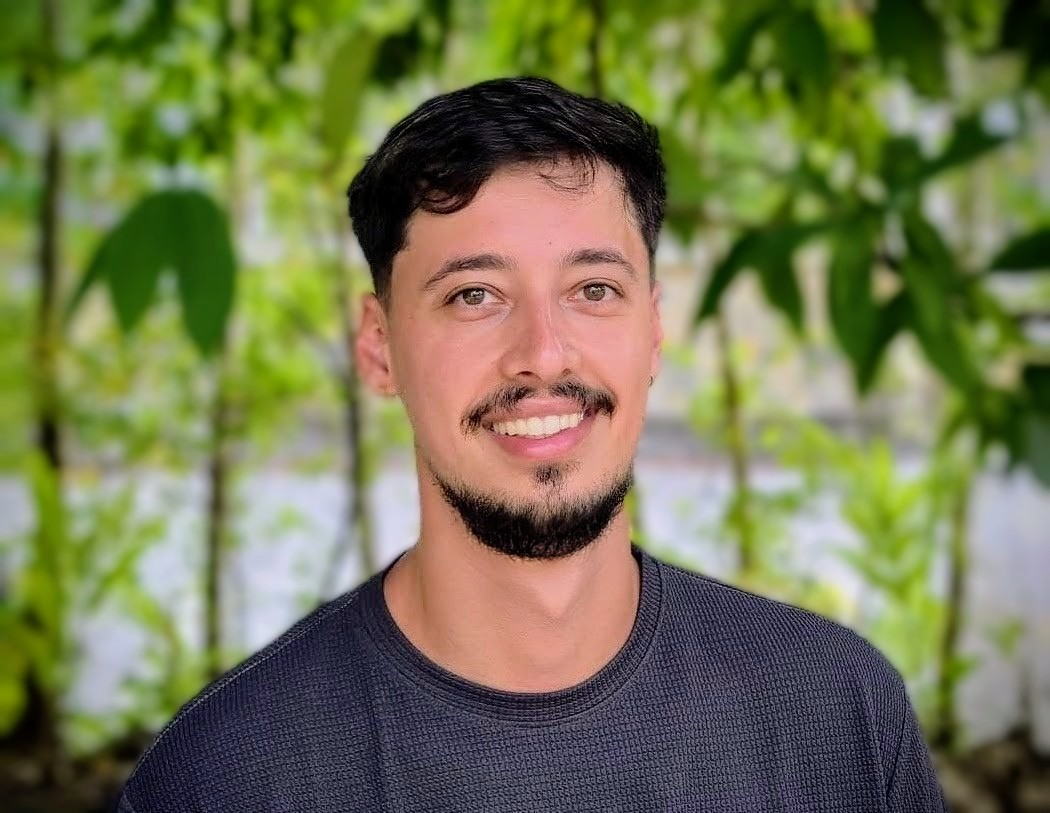
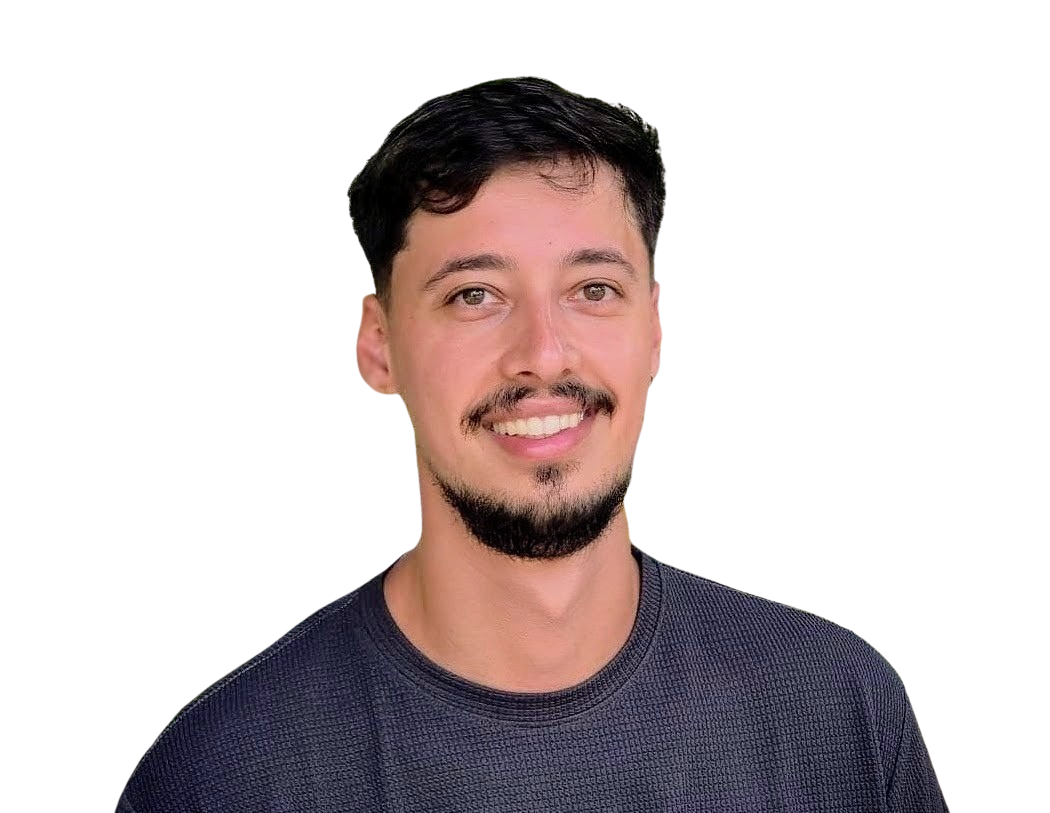
adjust hero part

diff --git a/src/index.css b/src/index.css
@@ -5,111 +5,161 @@
 @custom-variant dark (&:where(.dark, .dark *));
 
 html {
-  scroll-behavior: smooth;
+    scroll-behavior: smooth;
 }
 
 @media (prefers-reduced-motion: reduce) {
-  html {
-    scroll-behavior: auto;
-  }
+    html {
+        scroll-behavior: auto;
+    }
 }
 
 #experience,
 #skills,
 #writings {
-  scroll-margin-top: 4rem;
+    scroll-margin-top: 4rem;
 }
 
 @theme {
-  --color-surface-container-low: #f2f4f6;
-  --color-surface-container-highest: #e0e3e5;
-  --color-background: #f7f9fb;
-  --color-on-secondary-fixed-variant: #2f3aa3;
-  --color-primary-fixed: #e3dfff;
-  --color-on-primary-container: #8683ba;
-  --color-inverse-primary: #c4c1fb;
-  --color-on-secondary-fixed: #000767;
-  --color-error-container: #ffdad6;
-  --color-primary-container: #1e1b4b;
-  --color-tertiary-container: #002722;
-  --color-on-primary-fixed-variant: #444173;
-  --color-on-tertiary-fixed: #00201c;
-  --color-surface: #f7f9fb;
-  --color-tertiary: #000e0b;
-  --color-surface-container-high: #e6e8ea;
-  --color-outline: #787680;
-  --color-surface-tint: #5b598c;
-  --color-surface-variant: #e0e3e5;
-  --color-on-primary-fixed: #181445;
-  --color-on-primary: #ffffff;
-  --color-inverse-on-surface: #eff1f3;
-  --color-primary: #070235;
-  --color-surface-container: #eceef0;
-  --color-surface-container-lowest: #ffffff;
-  --color-outline-variant: #c8c5d0;
-  --color-primary-fixed-dim: #c4c1fb;
-  --color-on-secondary-container: #17228f;
-  --color-on-error: #ffffff;
-  --color-tertiary-fixed: #62fae3;
-  --color-tertiary-fixed-dim: #3cddc7;
-  --color-secondary-fixed-dim: #bdc2ff;
-  --color-secondary: #4953bc;
-  --color-on-error-container: #93000a;
-  --color-error: #ba1a1a;
-  --color-surface-bright: #f7f9fb;
-  --color-surface-dim: #d8dadc;
-  --color-on-surface: #191c1e;
-  --color-secondary-fixed: #e0e0ff;
-  --color-on-tertiary-fixed-variant: #005047;
-  --color-inverse-surface: #2d3133;
-  --color-on-tertiary: #ffffff;
-  --color-on-background: #191c1e;
-  --color-secondary-container: #8792fe;
-  --color-on-tertiary-container: #009a8a;
-  --color-on-secondary: #ffffff;
-  --color-on-surface-variant: #47464f;
+    --color-surface-container-low: #f2f4f6;
+    --color-surface-container-highest: #e0e3e5;
+    --color-background: #f7f9fb;
+    --color-on-secondary-fixed-variant: #2f3aa3;
+    --color-primary-fixed: #e3dfff;
+    --color-on-primary-container: #8683ba;
+    --color-inverse-primary: #c4c1fb;
+    --color-on-secondary-fixed: #000767;
+    --color-error-container: #ffdad6;
+    --color-primary-container: #1e1b4b;
+    --color-tertiary-container: #002722;
+    --color-on-primary-fixed-variant: #444173;
+    --color-on-tertiary-fixed: #00201c;
+    --color-surface: #f7f9fb;
+    --color-tertiary: #000e0b;
+    --color-surface-container-high: #e6e8ea;
+    --color-outline: #787680;
+    --color-surface-tint: #5b598c;
+    --color-surface-variant: #e0e3e5;
+    --color-on-primary-fixed: #181445;
+    --color-on-primary: #ffffff;
+    --color-inverse-on-surface: #eff1f3;
+    --color-primary: #070235;
+    --color-surface-container: #eceef0;
+    --color-surface-container-lowest: #ffffff;
+    --color-outline-variant: #c8c5d0;
+    --color-primary-fixed-dim: #c4c1fb;
+    --color-on-secondary-container: #17228f;
+    --color-on-error: #ffffff;
+    --color-tertiary-fixed: #62fae3;
+    --color-tertiary-fixed-dim: #3cddc7;
+    --color-secondary-fixed-dim: #bdc2ff;
+    --color-secondary: #4953bc;
+    --color-on-error-container: #93000a;
+    --color-error: #ba1a1a;
+    --color-surface-bright: #f7f9fb;
+    --color-surface-dim: #d8dadc;
+    --color-on-surface: #191c1e;
+    --color-secondary-fixed: #e0e0ff;
+    --color-on-tertiary-fixed-variant: #005047;
+    --color-inverse-surface: #2d3133;
+    --color-on-tertiary: #ffffff;
+    --color-on-background: #191c1e;
+    --color-secondary-container: #8792fe;
+    --color-on-tertiary-container: #009a8a;
+    --color-on-secondary: #ffffff;
+    --color-on-surface-variant: #47464f;
 
-  --font-headline: "Manrope", sans-serif;
-  --font-body: "Inter", sans-serif;
-  --font-label: "Inter", sans-serif;
+    --font-headline: "Manrope", sans-serif;
+    --font-body: "Inter", sans-serif;
+    --font-label: "Inter", sans-serif;
 
-  --radius: 0.125rem;
-  --radius-lg: 0.25rem;
-  --radius-xl: 0.5rem;
-  --radius-full: 0.75rem;
+    --radius: 0.125rem;
+    --radius-lg: 0.25rem;
+    --radius-xl: 0.5rem;
+    --radius-full: 0.75rem;
 
-  --shadow-nav: 0 20px 40px rgba(30, 27, 75, 0.05);
-  --shadow-card: 0 20px 40px rgba(30, 27, 75, 0.05);
+    --shadow-nav: 0 20px 40px rgba(30, 27, 75, 0.05);
+    --shadow-card: 0 20px 40px rgba(30, 27, 75, 0.05);
 }
 
 .material-symbols-outlined {
-  font-variation-settings:
-          "FILL" 0,
-          "wght" 400,
-          "GRAD" 0,
-          "opsz" 24;
+    font-variation-settings: "FILL" 0,
+    "wght" 400,
+    "GRAD" 0,
+    "opsz" 24;
 }
 
 .blob-bg {
-  background: radial-gradient(
-          circle at 50% 50%,
-          rgba(129, 140, 248, 0.1) 0%,
-          rgba(129, 140, 248, 0) 70%
-  );
-  filter: blur(60px);
+    background: radial-gradient(
+            circle at 50% 50%,
+            rgba(129, 140, 248, 0.1) 0%,
+            rgba(129, 140, 248, 0) 70%
+    );
+    filter: blur(60px);
+}
+
+.hexagon {
+    filter: saturate(1.1) brightness(1.05);
+    background: radial-gradient(circle at 30% 30%, rgba(255, 255, 255, 0.2), transparent 40%),
+    radial-gradient(circle at 70% 70%, rgba(255, 255, 255, 0.15), transparent 40%),
+    linear-gradient(
+            135deg,
+            #ff6f91,
+            #7c7bff,
+            #9b6bff,
+            #b06ab3
+    );
+    display: flex;
+    align-items: center;
+    justify-content: center;
+    overflow: hidden;
+}
+
+.hex-small {
+    position: absolute;
+    width: 80px;
+    height: 80px;
+
+    background: rgba(255, 255, 255, 0.15);
+    transform: rotate(90deg);
+    clip-path: polygon(
+            25% 5%,
+            75% 5%,
+            100% 50%,
+            75% 95%,
+            25% 95%,
+            0% 50%
+    );
+
+    filter: blur(2px);
+    z-index: 2;
+}
+
+.hex-small.one {
+    top: 20%;
+    left: 4%;
+}
+
+.hex-small.two {
+    bottom: 20%;
+    right: 4%;
 }
 
 @keyframes experience-path-dash-flow {
-  to {
-    stroke-dashoffset: -30;
-  }
+    to {
+        stroke-dashoffset: -30;
+    }
 }
 
 .experience-path-dash-animate {
-  animation: experience-path-dash-flow 1.1s linear infinite;
+    animation: experience-path-dash-flow 1.1s linear infinite;
 }
 
 @keyframes float {
-  0%, 100% { transform: translateY(0px); }
-  50% { transform: translateY(-10px); }
+    0%, 100% {
+        transform: translateY(0px);
+    }
+    50% {
+        transform: translateY(-10px);
+    }
 }

diff --git a/src/components/HeroSection.tsx b/src/components/HeroSection.tsx
@@ -31,9 +31,9 @@ const socialIconMap: Record<
 };
 const socialUiMap: Record<SocialPlatform, { pos: string; delay: string }> = {
   LinkedIn: { pos: "-top-2 -left-4", delay: "0s" },
-  GitHub: { pos: "top-1/2 -right-10", delay: "0.2s" },
-  LeetCode: { pos: "-bottom-4 left-1/4", delay: "0.4s" },
-  Medium: { pos: "top-1/4 -right-8", delay: "0.1s" },
+  GitHub: { pos: "top-3/5 -right-10", delay: "0.2s" },
+  LeetCode: { pos: "-bottom-4 left-1/5", delay: "0.4s" },
+  Medium: { pos: "top-1 -right-[-15px]", delay: "0.1s" },
 };
 const socials: SocialViewModel[] = (cv.socials as SocialItem[]).map((s) => ({
   Icon: socialIconMap[s.platform],
@@ -44,7 +44,7 @@ const socials: SocialViewModel[] = (cv.socials as SocialItem[]).map((s) => ({
 
 export default function HeroSection() {
   return (
-    <header className="relative flex min-h-[819px] items-center overflow-hidden py-24">
+    <header className="relative flex min-h-[619px] items-center overflow-hidden py-24">
       <div className="blob-bg absolute left-1/4 top-1/2 -z-10 h-[600px] w-[600px] -translate-x-1/2 -translate-y-1/2 opacity-40" />
       <div
         className="absolute inset-0 opacity-[0.02]"
@@ -57,8 +57,11 @@ export default function HeroSection() {
 
       <div className="mx-auto grid w-full max-w-7xl grid-cols-1 items-center gap-16 px-8 lg:grid-cols-12">
         <div className="flex flex-col justify-center lg:col-span-7">
+          <p className="max-w-xl py-2 font-body text-lg leading-relaxed">
+            Software Engineer
+          </p>
           <h1 className="mb-8 max-w-2xl font-headline text-[3.5rem] font-[800] leading-[1.1] tracking-[-0.02em] text-primary">
-            "{cv.hero.headline}"
+            {cv.hero.headline}
           </h1>
           <div className="mb-8 h-1 w-24 bg-secondary-container" />
           <p className="max-w-xl border-l border-outline-variant/30 py-2 pl-6 font-body text-lg leading-relaxed text-on-surface-variant">
@@ -84,14 +87,25 @@ export default function HeroSection() {
               </a>
             ))}
 
-            <div className="absolute inset-0 scale-105 rounded-full bg-gradient-to-tr from-primary to-secondary opacity-30 blur-2xl" />
-
-            <div className="relative h-full w-full bg-surface-container-high p-1 shadow-2xl [clip-path:polygon(50%_0%,93%_25%,93%_75%,50%_100%,7%_75%,7%_25%)]">
+            <div className="absolute inset-0 scale-105 rounded-full bg-gradient-to-tr from-primary to-secondary opacity-30 blur-3xl" />
+            <svg width="0" height="0" className="absolute">
+              <defs>
+                <clipPath id="hex-clip" clipPathUnits="objectBoundingBox">
+                  <path d="M 0.465,0.02 Q 0.5,0 0.535,0.02 L 0.896,0.23 Q 0.93,0.25 0.93,0.27 L 0.93,0.73 Q 0.93,0.75 0.896,0.77 L 0.535,0.98 Q 0.5,1 0.465,0.98 L 0.104,0.77 Q 0.07,0.75 0.07,0.73 L 0.07,0.27 Q 0.07,0.25 0.104,0.23 Z" />
+                </clipPath>
+              </defs>
+            </svg>
+            <div
+              className="relative h-full w-full"
+              style={{ clipPath: "url(#hex-clip)" }}
+            >
               <img
                 src={ProfileImg}
                 alt="Profile picture"
-                className="h-full w-full object-cover [clip-path:polygon(50%_0%,93%_25%,93%_75%,50%_100%,7%_75%,7%_25%)]"
+                className="h-full w-full object-cover hexagon"
               />
+              <div className="hex-small one mix-blend-overlay" />
+              <div className="hex-small two mix-blend-overlay" />
             </div>
           </div>
         </div>

diff --git a/src/components/ExperienceSection.tsx b/src/components/ExperienceSection.tsx
@@ -83,9 +83,9 @@ export default function ExperienceSection() {
     for (let i = 0; i < segmentCount; i += 1) {
       const yBase = i * segmentHeight;
       const nextY = (i + 1) * segmentHeight;
-      const sweepX = entries[i]?.isRight ? 900 : 100;
+      const sweepX = entries[i]?.isRight ? 950 : 50;
 
-      d += ` C ${sweepX} ${yBase + 150}, ${sweepX} ${nextY - 150}, 500 ${nextY}`;
+      d += ` C ${sweepX} ${yBase + 100}, ${sweepX} ${nextY - 100}, 500 ${nextY}`;
     }
 
     return d;
